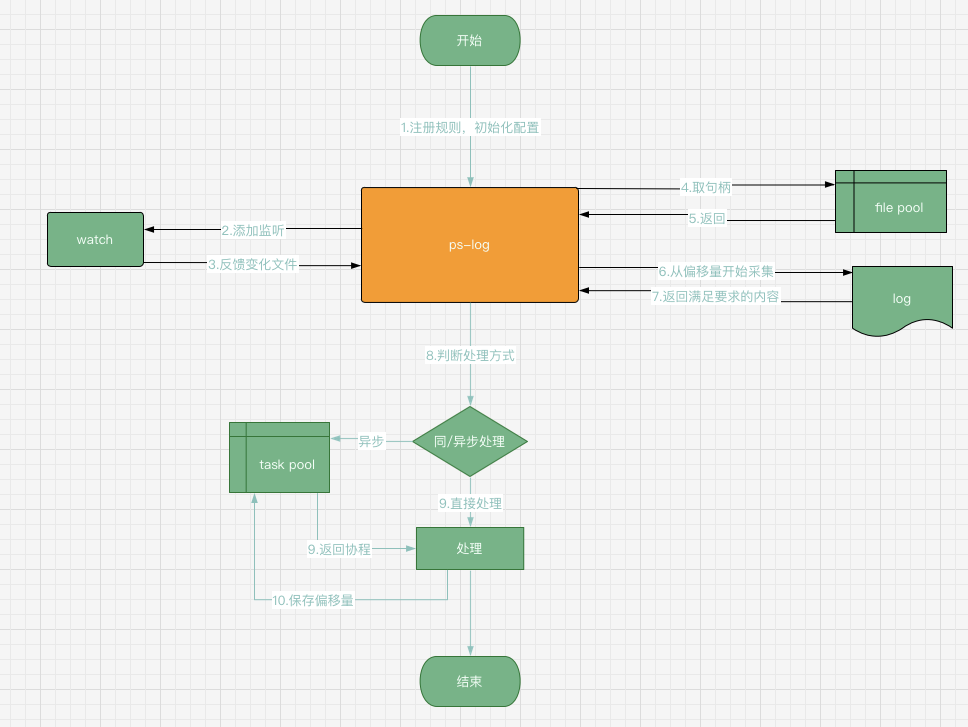
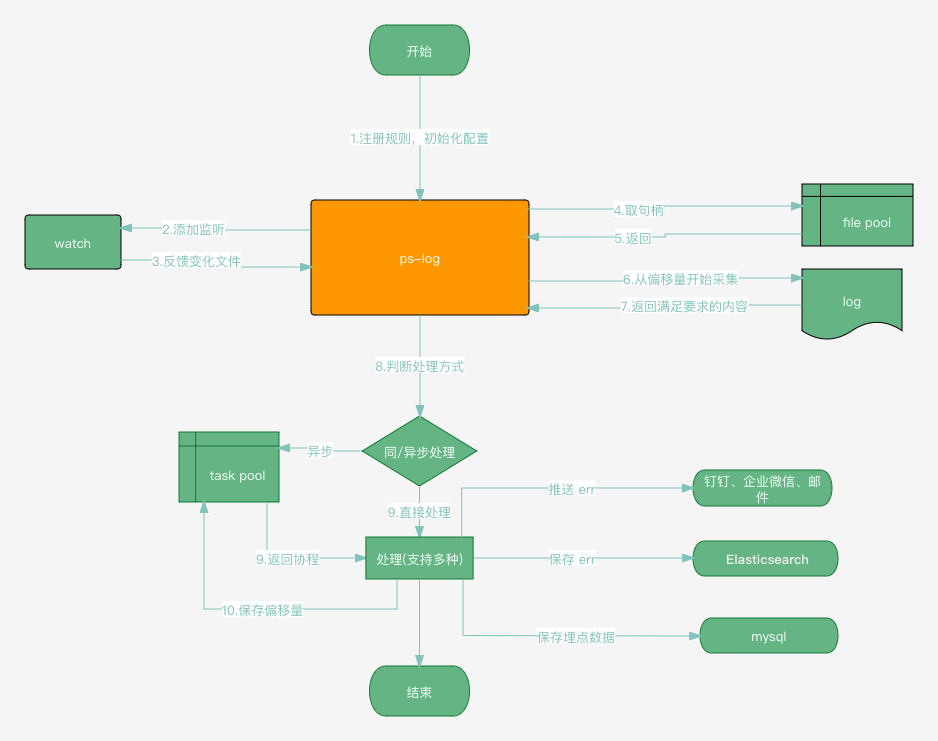
1. 优化行匹配 2. 优化流程图

diff --git a/pslog.go b/pslog.go
@@ -355,21 +355,20 @@ func (p *PsLog) parseLog(mustSaveOffset bool, fileInfo *FileInfo) {
 		if readSize > fileSize {
 			break
 		}
+
+		rowBytes := rows.Bytes()
+		readSize += int64(len(rowBytes))
 		// 处理行内容, 解决日志中可能出现的换行, 如: err stack
-		if !handler.MergeRule.Append(rows.Bytes()) {
+		if !handler.MergeRule.Append(rowBytes) {
 			continue
 		}
-
-		line := handler.MergeRule.Line()
-		p.handleLine(fileInfo, dataMap, line)
-		readSize += int64(len(line))
+		p.handleLine(fileInfo, dataMap, handler.MergeRule.Line())
 	}
 
 	// 说明还有内容没有读取完
-	if readSize < fileSize {
-		// residue := len(handler.MergeLine.Residue())
+	if !handler.MergeRule.Null() {
 		// plg.Infof("fileSize: %d, readSize: %d, residue: %d, total: %d", fileSize, readSize, residue, readSize+int64(residue))
-		p.handleLine(fileInfo, dataMap, handler.MergeRule.Residue())
+		p.handleLine(fileInfo, dataMap, handler.MergeRule.Line())
 	}
 
 	// plg.Info("dataMap:", base.ToString(dataMap))

diff --git a/line/multi.go b/line/multi.go
@@ -28,29 +28,28 @@ func (m *Multi) StartPattern(expr string) error {
 	return nil
 }
 
-// Line 获取行内容
-// 注: 获取完后, 应该调用一次 Residue 获取剩余的内容
+func (m *Multi) Null() bool {
+	defer m.buf.Reset()
+	m.line = m.buf.Bytes()
+	return len(m.line) == 0
+}
+
 func (m *Multi) Line() []byte {
 	tmp := m.line
 	m.line = nil
 	return tmp
 }
 
-func (m *Multi) Residue() []byte {
-	defer m.buf.Reset()
-	return m.buf.Bytes()
-}
-
 func (m *Multi) Append(data []byte) bool {
 	// 说明:
-	// 1. 第一次匹配先清理 buf, 然后追加
+	// 1. 第一次匹配时先清理 buf(buf 为空), 然后追加
 	// 2. 第二次匹配就应该上一行的内容
 	if m.re.Match(data) {
 		m.line = m.buf.Bytes()
 		m.buf.Reset()
 	}
 	if _, err := m.buf.Write(data); err != nil {
-		plg.Error("m.data.Write is failed, err:", err)
+		plg.Error("m.buf.Write is failed, err:", err)
 	}
 	return len(m.line) > 0
 }

diff --git a/line/abstract.go b/line/abstract.go
@@ -1,7 +1,7 @@
 package line
 
 type Merger interface {
+	Null() bool              // 执行结束后, 需要判断是否为空, 如果不为空, 就再调用 Line
 	Line() []byte            // 获取 merge 成功 line, 注: 获取完后, 应该调用一次 Residue 获取剩余的内容
-	Residue() []byte         // 剩余 line 内容
-	Append(data []byte) bool // 追加行内容, 如果返回 true 表示满足 merge 成功, 应该调用 Get 获取行内容; 反之未完成
+	Append(data []byte) bool // 追加行内容, 如果返回 true 表示满足 merge 成功, 应该调用 Line 获取行内容; 反之未完成
 }

diff --git a/line/single.go b/line/single.go
@@ -13,12 +13,11 @@ func (s *Single) reset() {
 	s.line = nil
 }
 
-func (s *Single) Line() []byte {
-	defer s.reset()
-	return s.line
+func (s *Single) Null() bool {
+	return len(s.line) == 0
 }
 
-func (s *Single) Residue() []byte {
+func (s *Single) Line() []byte {
 	defer s.reset()
 	return s.line
 }
